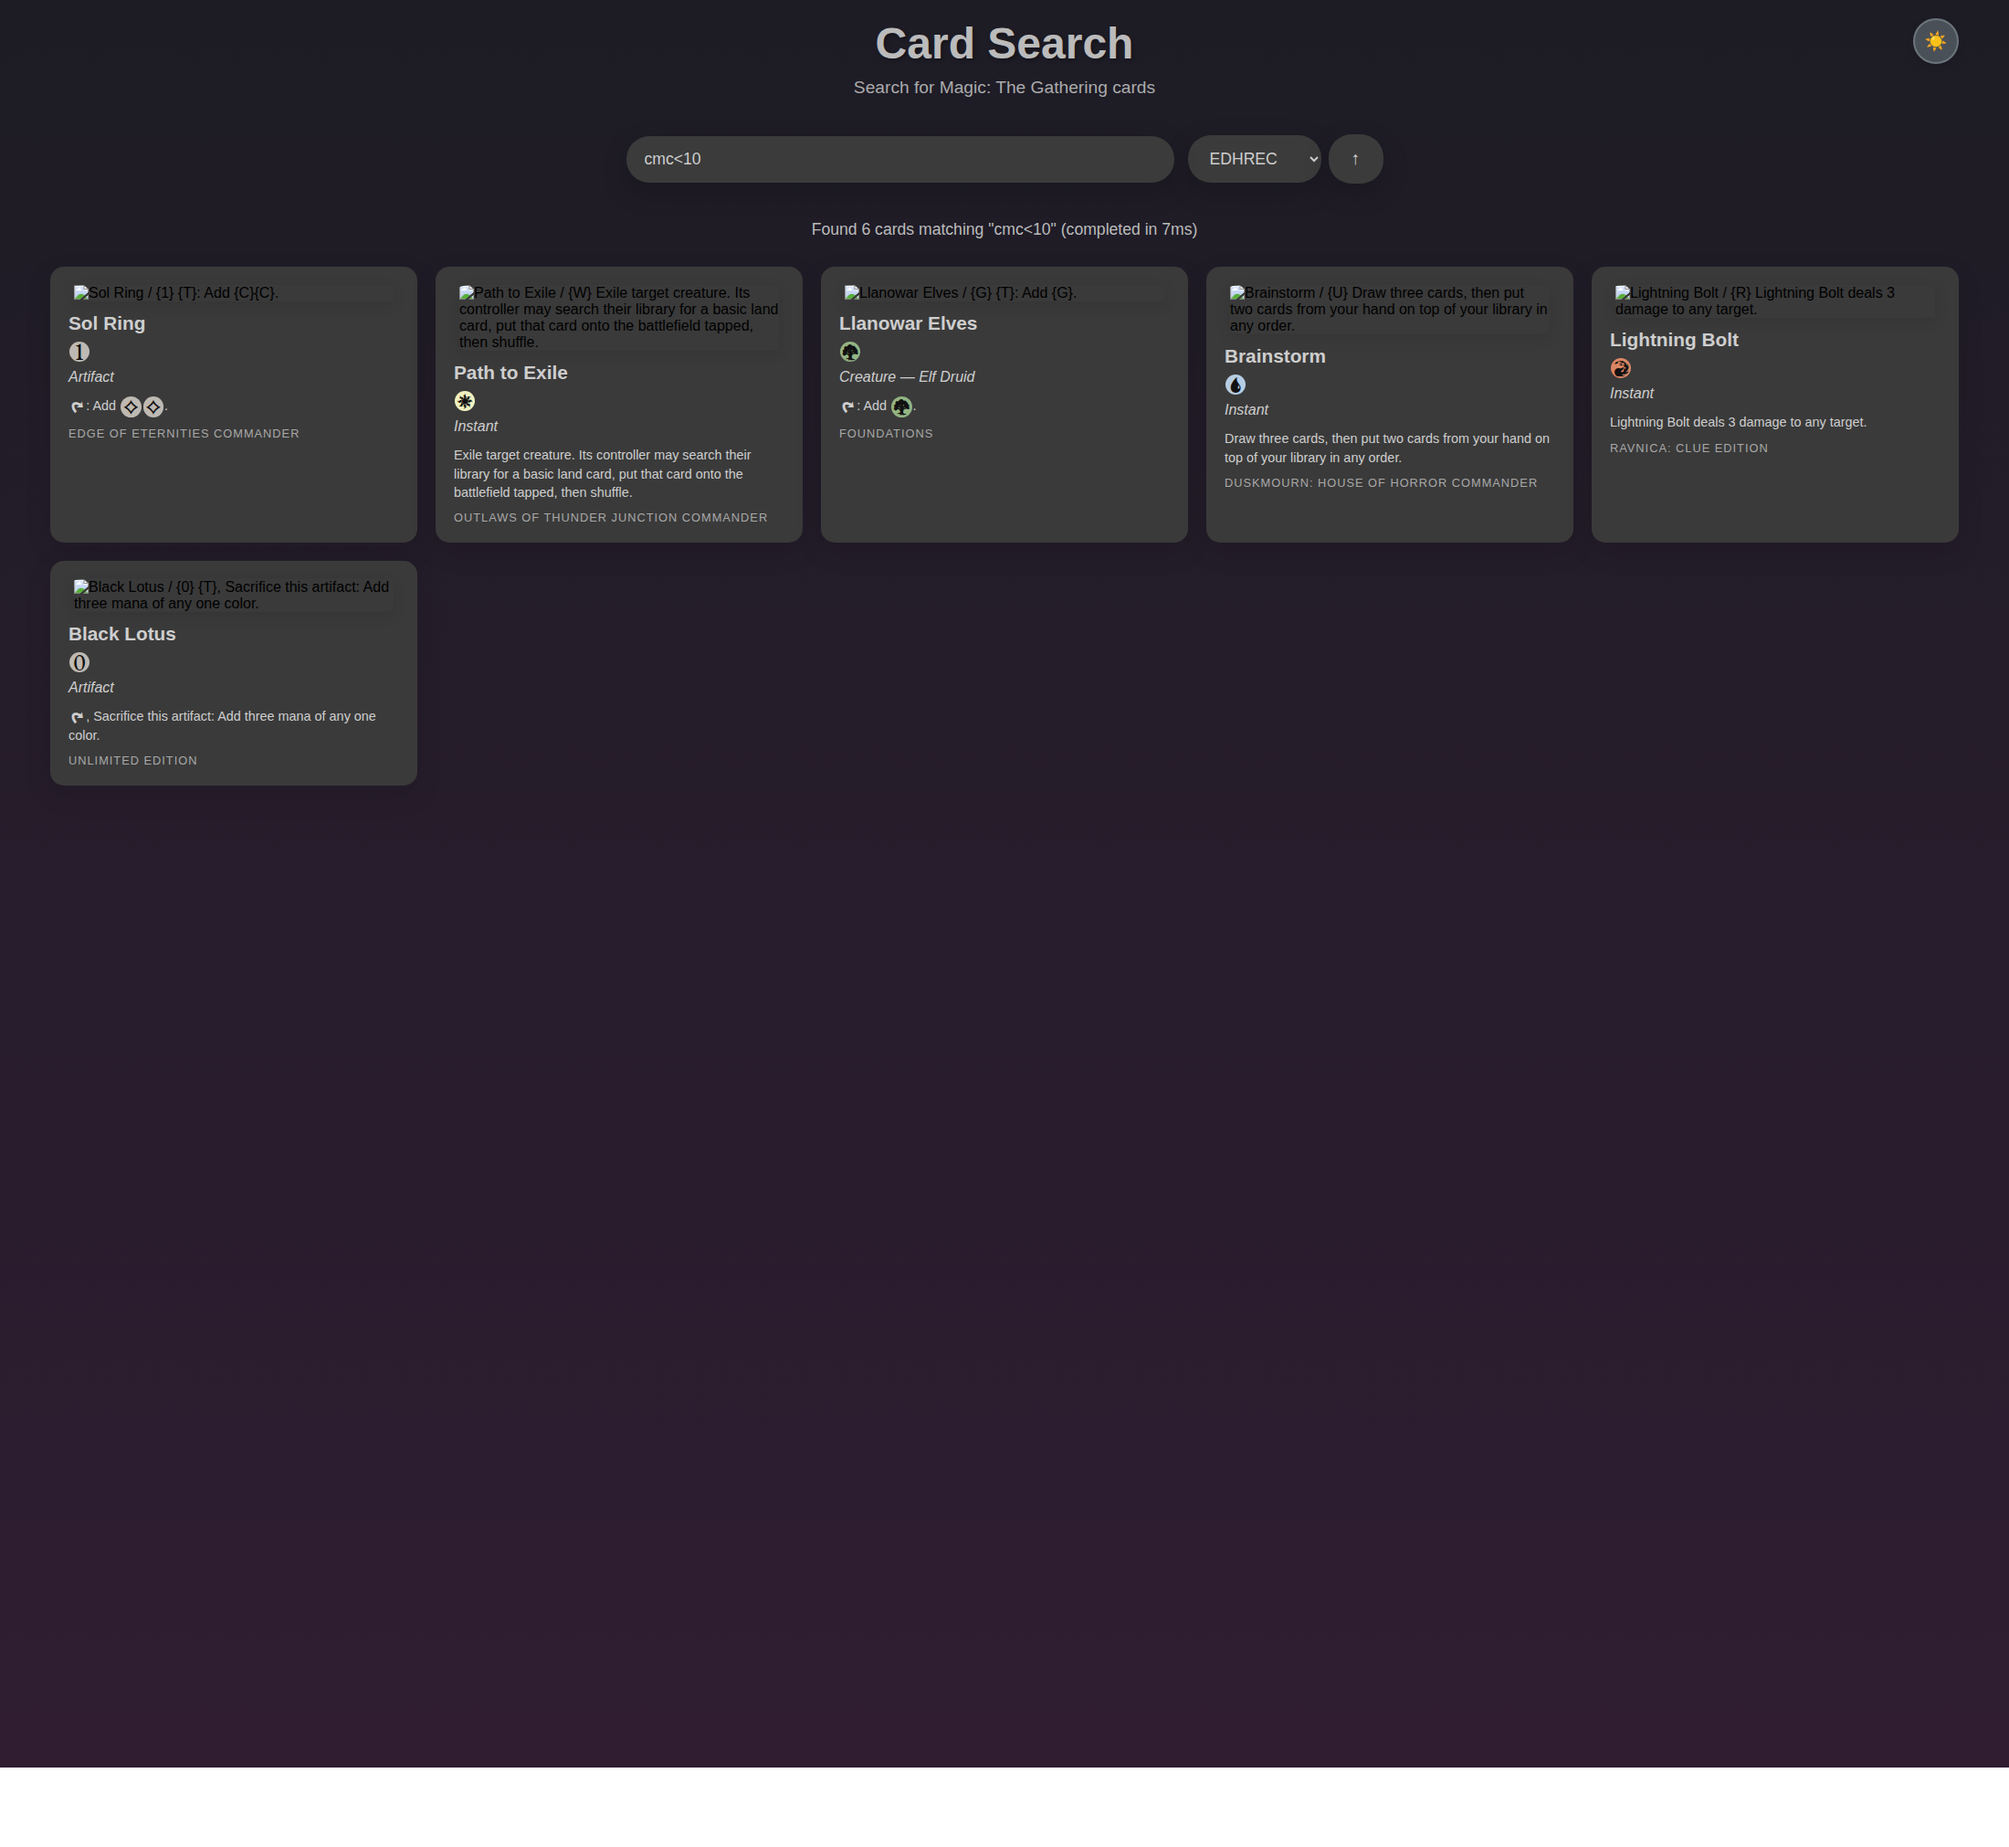
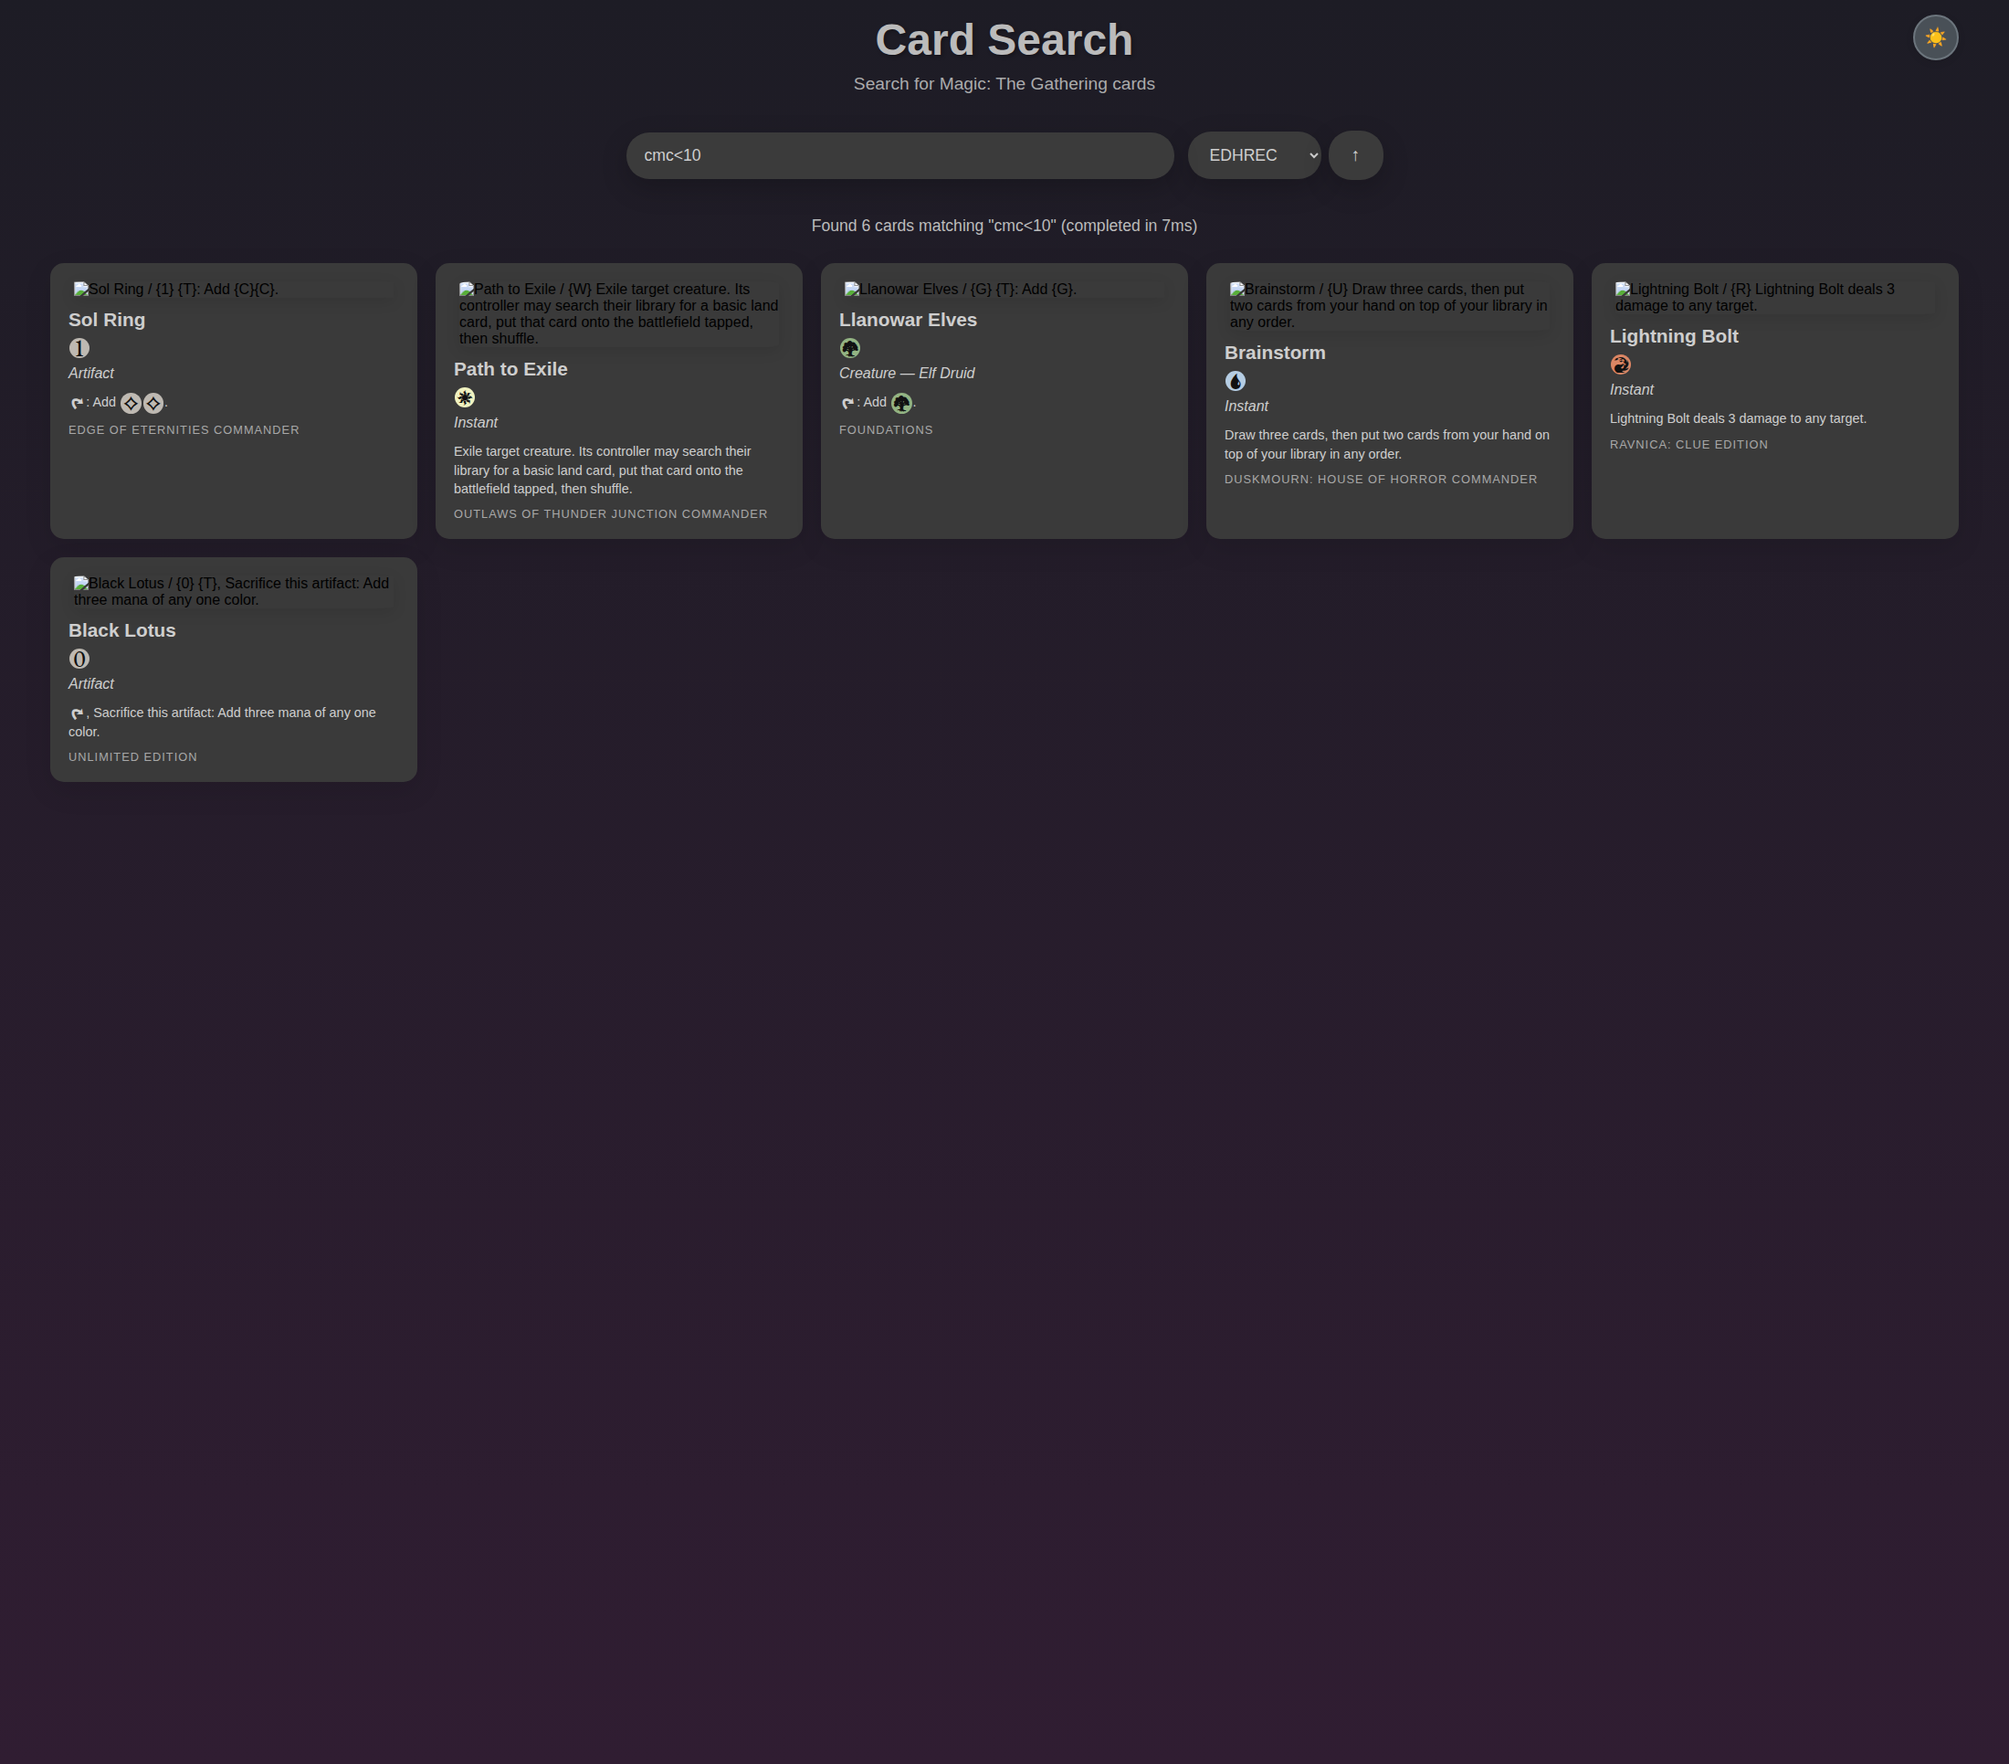
Fix image loading and add automatic white space trimming to screenshot script

diff --git a/scripts/README_SCREENSHOT.md b/scripts/README_SCREENSHOT.md
@@ -22,13 +22,14 @@ The `take_screenshot.sh` script automates the entire process of setting up the d
 - **Python 3.x** - For running the API server
 - **Google Chrome** - For taking screenshots with proper rendering
 - **curl** - For API calls and server health checks
+- **ImageMagick** - For trimming white space from screenshots
 - **libev-dev** (optional) - For webserver dependencies
 
 ### Installation on Ubuntu/Debian
 ```bash
 # Install system dependencies
 sudo apt-get update
-sudo apt-get install -y python3 python3-venv curl libev-dev
+sudo apt-get install -y python3 python3-venv curl libev-dev imagemagick
 
 # Install Google Chrome
 wget -q -O - https://dl.google.com/linux/linux_signing_key.pub | sudo apt-key add -
@@ -53,7 +54,8 @@ The script follows this procedure:
    - Sol Ring
 5. **Search Verification** - Confirms the search functionality works
 6. **Screenshot Capture** - Uses Chrome with dark mode flags to capture the interface
-7. **Cleanup** - Stops server and cleans up temporary files
+7. **Image Processing** - Automatically trims white space from the bottom of the screenshot
+8. **Cleanup** - Stops server and cleans up temporary files
 
 ## Usage Options
 
@@ -111,7 +113,7 @@ The script uses Chrome with these specific flags for optimal screenshot capture:
 **Script fails with "Missing dependencies"**
 ```bash
 # Install missing system packages
-sudo apt-get install -y python3 python3-venv curl google-chrome-stable
+sudo apt-get install -y python3 python3-venv curl google-chrome-stable imagemagick
 ```
 
 **Server fails to start**
@@ -187,12 +189,8 @@ git commit -m "Update README screenshot"
 - `--force-dark-mode` - Forces all websites to render in dark mode
 - `--enable-features=WebUIDarkMode` - Enables Chrome's dark mode UI features
 - `--disable-web-security` - Disables same-origin policy to allow card image loading
-- `--virtual-time-budget=15000` - Gives the page 15 seconds of virtual time to fully load
+- `--virtual-time-budget=20000` - Gives the page 20 seconds of virtual time to fully load
 - `--run-all-compositor-stages-before-draw` - Ensures complete rendering before screenshot
-- `--disable-partial-raster` - Improves screenshot quality by disabling partial rendering
-- `--disable-skia-runtime-opts` - Ensures consistent rendering behavior
-- `--disable-threaded-compositing` - Prevents rendering artifacts in screenshots
-- `--disable-checker-imaging` - Improves image loading reliability
 
 ### Card Import Process
 
